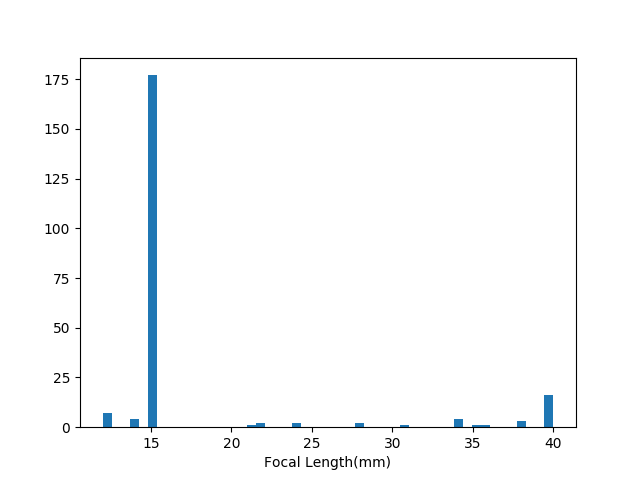
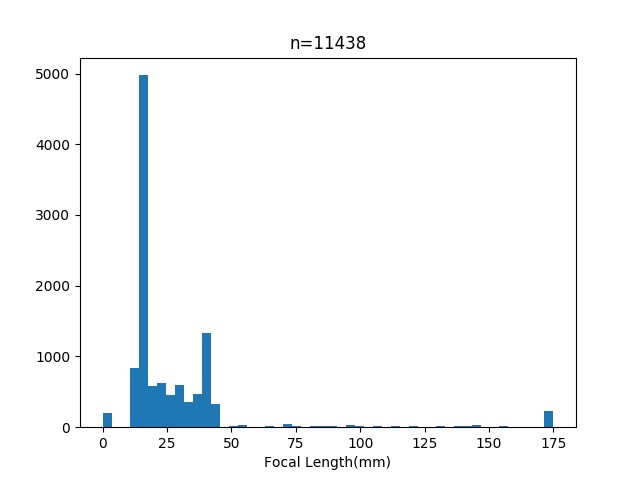
Ignore IOException

diff --git a/plot.py b/plot.py
@@ -29,20 +29,27 @@ parser.add_argument('source', help='source directory')
 args = parser.parse_args()
 
 fl_list = []
+file_count = 0
 
 for path in find_files(args.source):
     if path.lower().endswith('.jpg'):
-        fl = get_focal_length(Image.open(path))
+        try:
+            img = Image.open(path)
+        except:
+            continue
+
+        fl = get_focal_length(img)
         if fl is None:
             continue
+            
         fl_list.append(fl)
+        file_count += 1
 
 fl_array = np.array(fl_list)
-
 fig = plt.figure()
-ax = fig.add_subplot(1,1,1)
 
-ax.hist(fl_array, bins=50)
-ax.set_xlabel('Focal Length(mm)')
+plt.hist(fl_array, bins=50)
+plt.xlabel('Focal Length(mm)')
+plt.title('n={0}'.format(file_count))
 fig.show()
 plt.savefig('figure.png')

diff --git a/README.md b/README.md
@@ -1,0 +1,3 @@
+# FLPlot
+## TODO
+- Load only exif header instead of whole image data 
